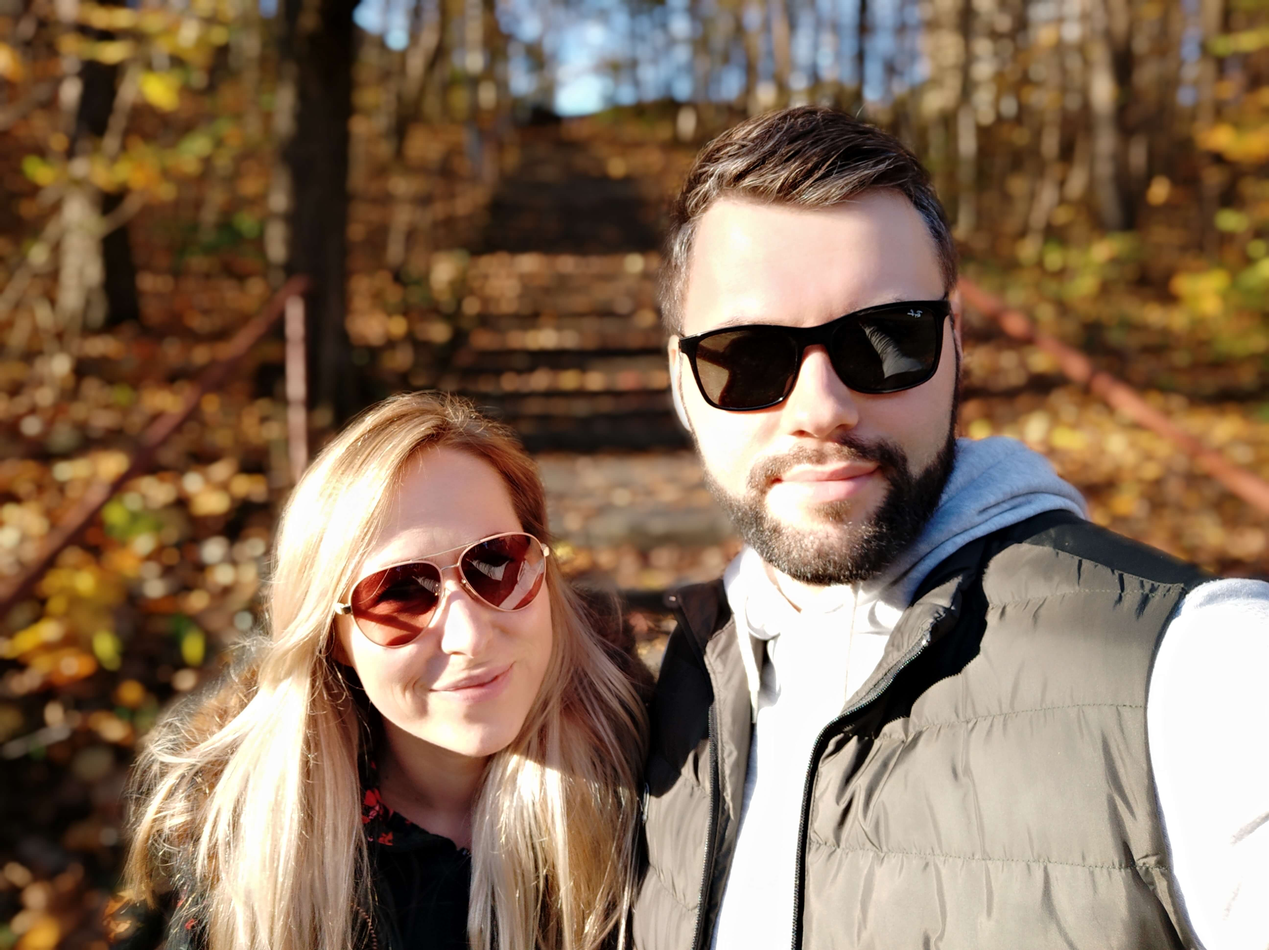
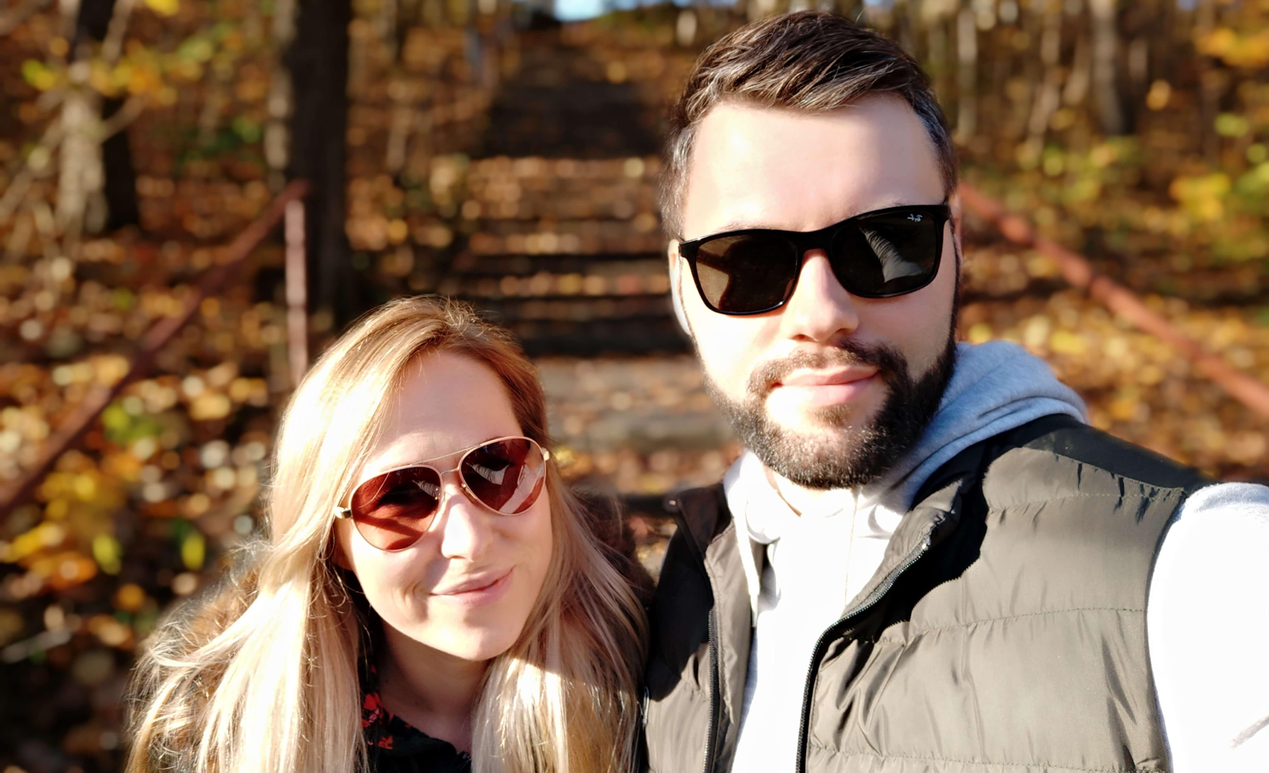
WeddingPageApp.Add polyfill array.find, Removed duplicate images, resize and change to jpg type.

diff --git a/WeddingApp/src/assets/styles/30_organisms/_registrationpage.scss b/WeddingApp/src/assets/styles/30_organisms/_registrationpage.scss
@@ -10,9 +10,11 @@
   }
 
   &__header {
+    margin-top: $base-spacing;
     padding: map-get($spacings, 5);
     color: $color-font;
     border-bottom: 1px solid gray;
+    border-top: 1px solid gray;
 
 
     h4 {

diff --git a/WeddingApp/src/assets/styles/50_templates/_weddingtemplate.scss b/WeddingApp/src/assets/styles/50_templates/_weddingtemplate.scss
@@ -71,7 +71,7 @@
           rgba(0, 0, 0, 0.5),
           rgba(0, 0, 0, 0.5),
           ),
-          url(../images/Contacts.png);
+          url(../images/Contacts.jpg);
     }
 
 

diff --git a/WeddingApp/src/polyfills.ts b/WeddingApp/src/polyfills.ts
@@ -1,1 +1,2 @@
 import 'react-app-polyfill/ie11';
+import "ie-array-find-polyfill";
